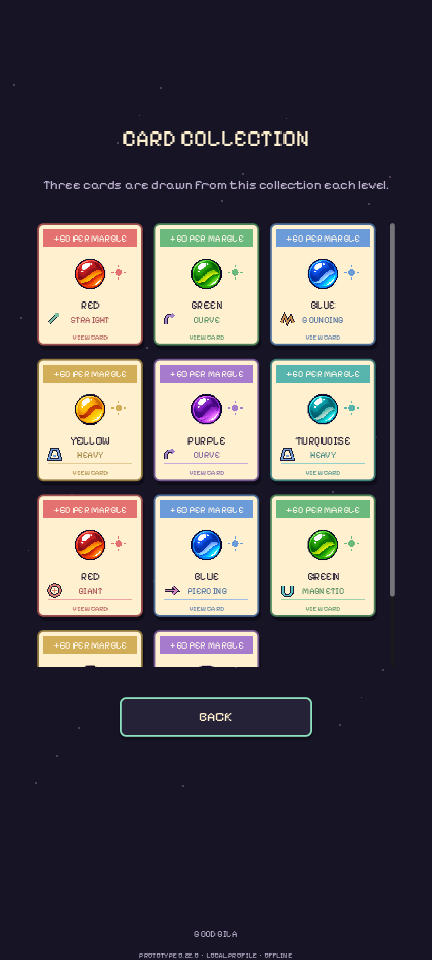
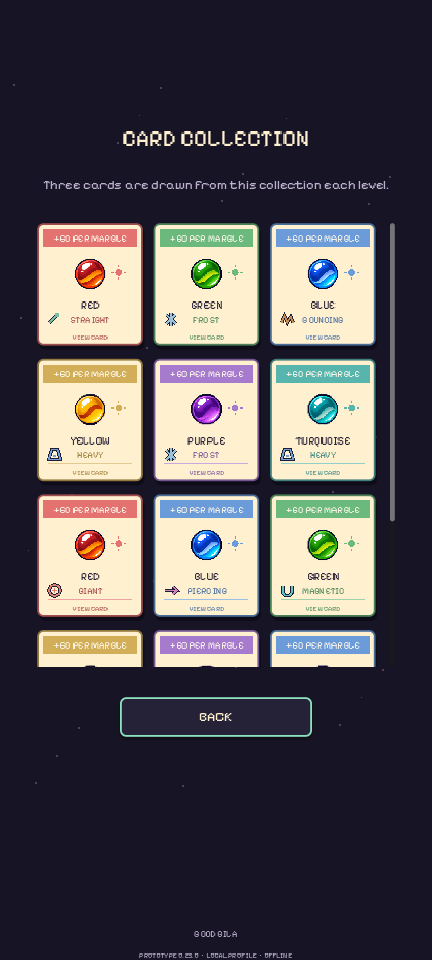
Rebalance Good Bila impacts and add Frost, Lightning and Repulsor effects

diff --git a/docs/good-bila/README.md b/docs/good-bila/README.md
@@ -8,7 +8,7 @@ In Good Bila, aiming is only part of the challenge. Every card changes both your
 
 [**Play the prototype**](#play-the-prototype) · [**How to play**](#how-to-play) · [**Cards and effects**](#cards-that-change-the-game) · [**Support / invest**](SUPPORT.md) · [**Development**](DEVELOPMENT.md)
 
-> **Status:** playable prototype **0.22.0**, in active development. Portrait Android gameplay and desktop execution through Godot. The screenshots below show the actual English-language prototype; field layouts change each level.
+> **Status:** playable prototype **0.23.0**, in active development. Portrait Android gameplay and desktop execution through Godot. The screenshots below show the actual English-language prototype; field layouts change each level.
 
 <table><tr><td align="center"><img src="images/gameplay.png" alt="Good Bila gameplay with scattered marbles and sand and pit obstacles" width="235"><br><strong>A field of possibilities</strong></td><td align="center"><img src="images/giant.png" alt="The Giant card increases the player marble's size, with a power gauge near the trajectory" width="235"><br><strong>One card changes the shot</strong></td><td align="center"><img src="images/game-over.png" alt="Game over screen showing score, target, and run statistics" width="235"><br><strong>One more run?</strong></td></tr></table>
 
@@ -26,7 +26,7 @@ The inspiration comes from traditional backyard marble games and the joy of find
 
 ### Android
 
-[**Download Good Bila 0.22.0 for Android**](https://github.com/levymtmr/Sygil-Tech/releases/download/good-bila-v0.22.0/good-bila-0.22.0.apk) · [Release page and installation notes](https://github.com/levymtmr/Sygil-Tech/releases/tag/good-bila-v0.22.0)
+[**Download Good Bila 0.23.0 for Android**](https://github.com/levymtmr/Sygil-Tech/releases/download/good-bila-v0.23.0/good-bila-0.23.0.apk) · [Release page and installation notes](https://github.com/levymtmr/Sygil-Tech/releases/tag/good-bila-v0.23.0)
 
 1. Download the APK and open it on your Android device.
 2. Allow installation from that source when Android asks.
@@ -55,19 +55,23 @@ The first level has **32 marbles and eight shots**. Target counts rise to 56, an
 
 ## Cards that change the game
 
-The collection has **11 cards and nine effects**. Some cards share an effect but request different colors.
+The collection has **13 cards and eleven effects**. Some cards share an effect but request different colors.
 
 | Effect | What changes |
 |---|---|
 | Straight | Follows your aiming direction. |
-| Curve | Bends to the right during the shot. |
+| Frost | Slows targets on impact, with a temporary ice coating. |
 | Bouncing | Makes three hops; while airborne, passes over marbles and obstacles. |
-| Heavy | More mass and impact, with shorter range. |
-| Giant | Increases the marble's size, collision area, and mass. |
+| Heavy | Deals two damage on a direct hit, destroying an intact target; shorter range. |
+| Giant | A much larger body and wide damage sweep hit targets on both sides of the path. |
 | Piercing | Passes through multiple targets and deals one hit to each per shot. |
 | Magnetic | Pulls nearby marbles while moving. |
-| Explosive | The first impact damages and pushes nearby targets. |
+| Explosive | The first impact destroys targets in its core, cracks outer targets, and scatters survivors. |
 | Ricochet | Makes better use of walls through stronger rebounds and lower drag. |
+| Lightning | Chains a hit through up to four targets, with visible electric arcs. |
+| Repulsor | Pushes nearby marbles outward while moving. |
+
+<img src="images/lightning.png" alt="Lightning effect with yellow player marble, matching trajectory and power gauge" width="235">
 
 Icons help identify the current state, and the marble itself changes color and animation. The collection lets you learn the possibilities; browsing it does not change your randomly drawn hand.
 
@@ -75,7 +79,7 @@ Icons help identify the current state, and the marble itself changes color and a
 
 ## Where the project stands
 
-**Playable now:** a complete run loop, random cards, nine physics effects, obstacles, multipliers, collection browser, game over summary, local profile and best score, original music, and touch/mouse controls.
+**Playable now:** a complete run loop, random cards, eleven physics effects, obstacles, multipliers, collection browser, game over summary, local profile and best score, original music, and touch/mouse controls.
 
 **Next priorities:** balance difficulty and effect combinations; test on more Android devices; improve readability, accessibility, and presentation; explore additional content based on player feedback.
 

diff --git a/docs/good-bila/DEVELOPMENT.md b/docs/good-bila/DEVELOPMENT.md
@@ -1,6 +1,6 @@
 # Good Bila · development
 
-**Documented version:** 0.22.0 · **Status:** playable prototype · **Updated:** November 9, 2026.
+**Documented version:** 0.23.0 · **Status:** playable prototype · **Updated:** November 10, 2026.
 
 [Presentation and how to play](README.md) · [Support and partnerships](SUPPORT.md) · [Code and technical setup](../../projetos/bila-mobile/README.md)
 
@@ -9,8 +9,8 @@
 | Area | Current state |
 |---|---|
 | Game mode | Destruction, without a triangle, with cumulative score targets and level progression. |
-| Cards | An 11-card collection; three randomly drawn per level, without deck building. |
-| Physics | Two hits to destroy a target, chain collisions, and nine effects. |
+| Cards | A 13-card collection; three randomly drawn per level, without deck building. |
+| Physics | Two hits to destroy a target, chain collisions, and eleven effects. |
 | Field | An opening rain of 32–56 marbles, random layouts, and varied obstacles. |
 | Interface | Collapsible hand, power gauge, icons, colors, and state-specific animations. |
 | Run loop | Points, objectives, multiplier, limited shots, and a game over summary. |
@@ -20,7 +20,7 @@
 
 ## Validation
 
-Version 0.21.0 passed **192 checks in the current automated suite**, plus touch validation in a 432 × 960 window. The suite covers card dealing, profile migration, marble rain, effects, terrain, scoring, and retry. A sample of 500 hands confirmed that every card can appear, with no repeated card within one hand. Version 0.22.0 reruns this suite for the English-language interface.
+Version 0.23.0 passed **215 automated checks**, including touch input. The suite covers card dealing, profile migration, marble rain, terrain, scoring, retry, heavy damage, blast destruction and impulse, giant sweep width, frost, lightning chains, and repulsion. A sample of 500 hands confirmed that every card can appear, with no repeated card within one hand.
 
 Presentation screenshots come from the prototype running in Godot. This does not replace a test campaign across different physical devices. Earlier versions were tested on Android by the creator; wider device compatibility remains a priority.
 

diff --git a/README.md b/README.md
@@ -4,9 +4,9 @@
 
 [![Good Bila — cards in hand, chaos on the field](docs/good-bila/images/cover.svg)](docs/good-bila/README.md)
 
-A pixel-art mobile prototype: aim, burst marbles, and use cards to change every shot. **Destruction · 11 cards · 9 effects · Android / Godot · English.**
+A pixel-art mobile prototype: aim, burst marbles, and use cards to change every shot. **Destruction · 13 cards · 11 effects · Android / Godot · English.**
 
-[**Meet the game and see screenshots →**](docs/good-bila/README.md) · [**Play the Android prototype →**](https://github.com/levymtmr/Sygil-Tech/releases/tag/good-bila-v0.22.0) · [**♥ Support / discuss investment →**](docs/good-bila/SUPPORT.md)
+[**Meet the game and see screenshots →**](docs/good-bila/README.md) · [**Play the Android prototype →**](https://github.com/levymtmr/Sygil-Tech/releases/tag/good-bila-v0.23.0) · [**♥ Support / discuss investment →**](docs/good-bila/SUPPORT.md)
 
 [How to play](docs/good-bila/README.md#how-to-play) · [Development status](docs/good-bila/DEVELOPMENT.md) · [Game source](projetos/bila-mobile/)
 

diff --git a/projetos/bila-mobile/CHANGELOG.md b/projetos/bila-mobile/CHANGELOG.md
@@ -1,5 +1,12 @@
 # Recent changes · Good Bila
 
+## 0.23.0
+- Heavy destroys an intact target on direct impact while retaining shorter range.
+- Explosive destroys its core, cracks outer targets and scatters survivors.
+- Giant has a larger body, more mass and a wider damage sweep.
+- Replace Curve with Frost; add Lightning and Repulsor, with matching colors, animations and icons.
+- Expand the random collection to 13 cards and 11 effects.
+
 ## 0.22.0
 - English interface: menus, cards, objectives, gameplay, settings, and game over.
 - English showcase, support pages, issue forms, release notes, and screenshots.

diff --git a/projetos/bila-mobile/README.md b/projetos/bila-mobile/README.md
@@ -1,4 +1,4 @@
-# Good Bila · prototype source 0.22.0
+# Good Bila · prototype source 0.23.0
 
 A 2D physics-and-cards marble game for Android, written in GDScript for **Godot 4.4.1**. The only game mode is Destruction: the first impact cracks a target and the second destroys it to award points. The interface and documentation are in English.
 
